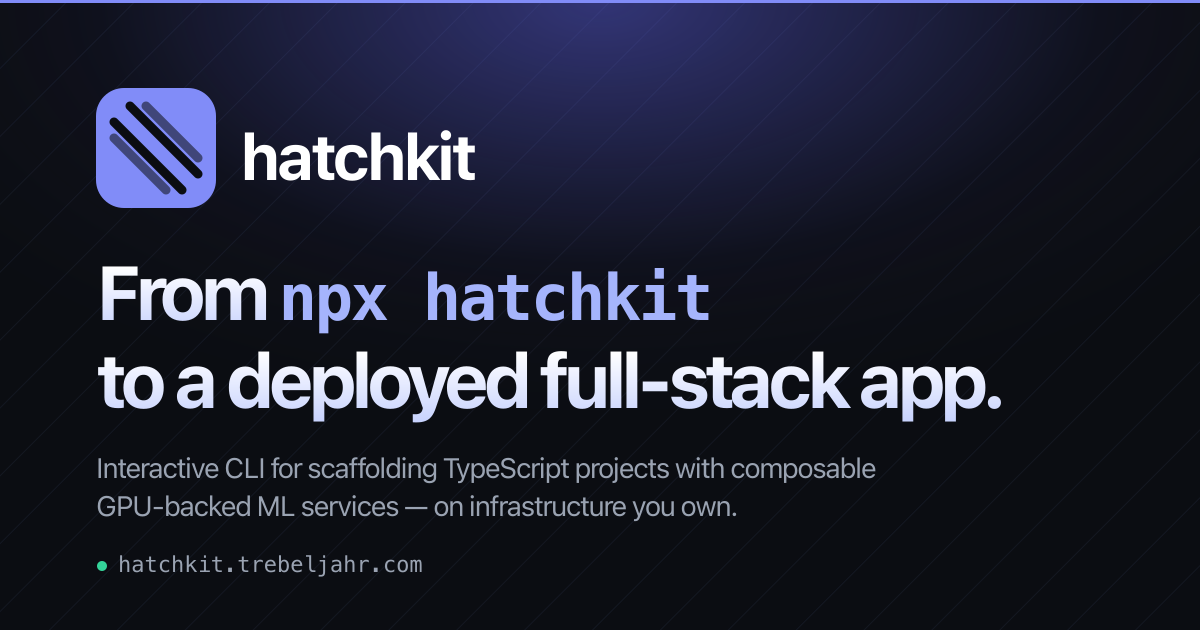
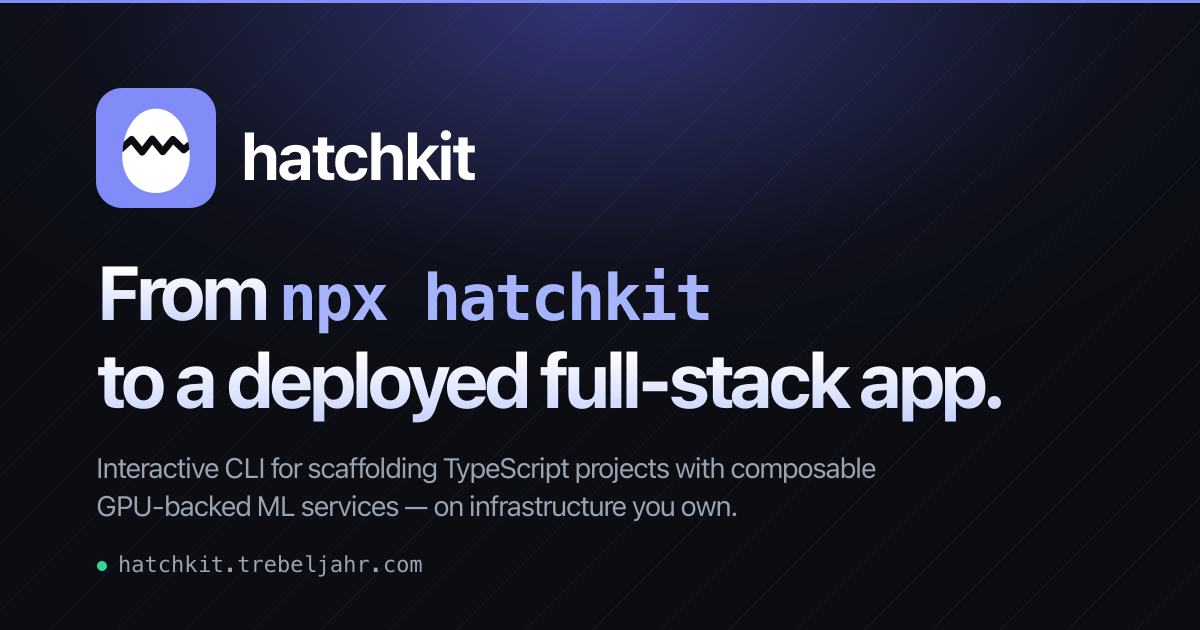
Use the egg mark everywhere on the docs site
The egg Rico picked in May was only the favicon; the logo, social card and
generated share image still showed the hatch lines or an HK box, and the nav
had no mark at all.

Changed region(s): [[0.0925, 0.1508, 0.185, 0.3317]]

diff --git a/docs/app/opengraph-image.tsx b/docs/app/opengraph-image.tsx
@@ -5,6 +5,10 @@ export const size = { width: 1200, height: 630 };
 export const contentType = "image/png";
 export const dynamic = "force-static";
 
+// The hatchkit egg (docs/public/img/favicon.svg), inlined so the static render needs no fetch.
+const EGG_MARK =
[1 lines of base64/hex data omitted]
+
 export default function Image() {
   return new ImageResponse(
     (
@@ -31,20 +35,7 @@ export default function Image() {
             letterSpacing: 0,
           }}
         >
-          <div
-            style={{
-              width: 52,
-              height: 52,
-              display: "flex",
-              alignItems: "center",
-              justifyContent: "center",
-              border: "2px solid rgba(255,255,255,0.72)",
-              borderRadius: 14,
-              background: "rgba(255,255,255,0.14)",
-            }}
-          >
-            HK
-          </div>
+          <img src={EGG_MARK} width={52} height={52} alt="" />
           hatchkit docs
         </div>
         <div style={{ display: "flex", flexDirection: "column", gap: 24 }}>

diff --git a/docs/lib/layout.shared.tsx b/docs/lib/layout.shared.tsx
@@ -3,7 +3,12 @@ import type { BaseLayoutProps } from "fumadocs-ui/layouts/shared";
 export function baseOptions(): BaseLayoutProps {
   return {
     nav: {
-      title: "hatchkit",
+      title: (
+        <span style={{ display: "inline-flex", alignItems: "center", gap: 8 }}>
+          <img src="/img/favicon.svg" alt="" width={22} height={22} />
+          hatchkit
+        </span>
+      ),
     },
     links: [
       {

diff --git a/docs/marketing/README.md b/docs/marketing/README.md
@@ -2,7 +2,7 @@
 
 Images for the repository README, the GitHub social preview and posts about hatchkit. Every image is made by a script in [`scripts/marketing/`](../../scripts/marketing/), so the set can be regenerated after the CLI changes. The screenshots are real CLI output from a sandbox. The social previews are HTML layouts built from real command, provider and env-key names, and round 2's card C embeds one of the screenshots. [`manifest.json`](manifest.json) lists each file with its pixel size, bytes and SHA-256.
 
-Brand: the docs site's palettes (dark: near-black `#0b0d12` with indigo `#818cf8`; light: `#f6f7fb` with indigo `#4f46e5`; diagonal hatch lines on both), [Inter](https://fonts.google.com/specimen/Inter) for text and [JetBrains Mono](https://fonts.google.com/specimen/JetBrains+Mono) for terminal text, and the logo mark from [`docs/public/img/logo.svg`](../public/img/logo.svg). The older 1200×630 docs card stays at [`docs/public/img/social-card.png`](../public/img/social-card.png).
+Brand: the docs site's palettes (dark: near-black `#0b0d12` with indigo `#818cf8`; light: `#f6f7fb` with indigo `#4f46e5`; diagonal hatch lines on both), [Inter](https://fonts.google.com/specimen/Inter) for text and [JetBrains Mono](https://fonts.google.com/specimen/JetBrains+Mono) for terminal text, and the egg mark (a white cracked egg on an indigo tile, chosen 13 May 2026) from [`docs/public/img/logo.svg`](../public/img/logo.svg), the same drawing as the favicon. The 1200×630 docs card at [`docs/public/img/social-card.png`](../public/img/social-card.png) carries the egg too.
 
 ## Files
 
